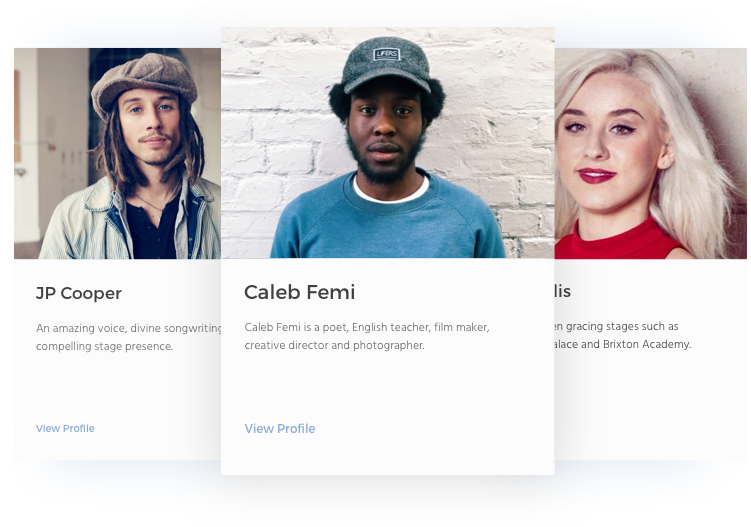
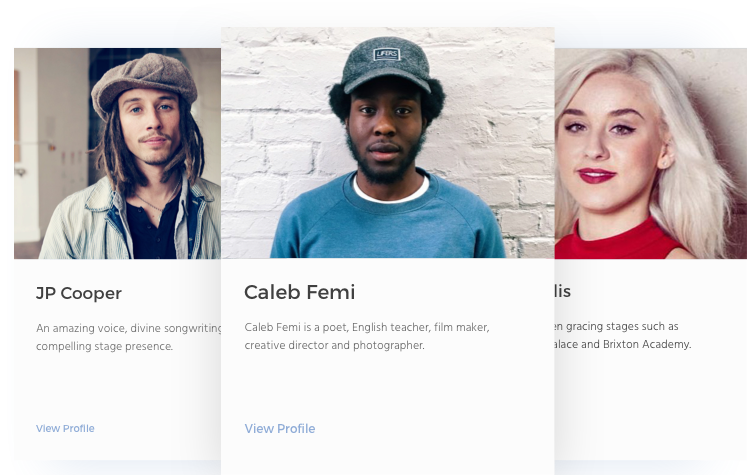
fixed project thumbnail issue on large screens

diff --git a/_sass/modules/_project-thumbnails.scss b/_sass/modules/_project-thumbnails.scss
@@ -18,22 +18,25 @@
     }
   }
 
-  @media screen and (min-width: pxtoem(768)) {
-    margin-bottom: pxtoem(120);
+  @media screen and (min-width: $tablet-min-breakpoint) {
+    margin-bottom: 7em;
   }
+
+  @media screen and (min-width: pxtoem(860)) {
+    margin-bottom: 10em;
+  }
+
 }
 
 .backdrop {
-  padding: 70px 0;
-
-  @media screen and (min-width: pxtoem(768)) and (max-width: pxtoem(991)) {
-    height: 300px;
+  @media screen and (max-width: $mobile-max-breakpoint) {
+    padding: 70px 0;
   }
 
-  @media screen and (min-width: pxtoem(992)) {
-    height: 360px;
+  .container {
+    position: relative;
+    height: 100%;
   }
-
 }
 
 #toad {
@@ -47,10 +50,9 @@
     background-color: #6187BE;
 
     .project-featured-image {
-      bottom: -63px;
-
       @media screen and (min-width: pxtoem(768)) {
         max-width: 700px;
+        bottom: -20px;
       }
 
       img {
@@ -65,11 +67,14 @@
 .project-thumb-info {
   position: relative;
   z-index: 2;
+
+  @media screen and (min-width: $tablet-min-breakpoint) {
+    padding: 70px 0;
+  }
 }
 
 .project-featured-image {
     @extend .thumbnail;
-
     img {
         display: block;
         margin-left: auto;
@@ -113,6 +118,7 @@
   font-family: $display-font-family;
   margin-bottom: pxtoem(20);
   display: block;
+
   @media screen and (max-width: 550px) {
     font-size: 0.875em;
   }

diff --git a/_includes/portfolio.html b/_includes/portfolio.html
@@ -1,5 +1,7 @@
 <section id="cta-target">
-    <h2 class="section-title center wow moveUpFade" data-wow-offset="50" data-wow-duration="700ms"> Projects </h2>
+    <h2 class="section-title center wow moveUpFade" data-wow-offset="50" data-wow-duration="700ms">
+        Projects
+    </h2>
 
     <div class="projects">
     {% for casestudy in site.projects reversed %}
@@ -9,7 +11,6 @@
                     <div class="project-featured-image">
                         <img src="{{site.baseurl}}/images/projects/{{casestudy.directory}}/thumbnail/{{casestudy.thumbnail}}" alt="project">
                     </div>
-
                     <div class="col-xs-12 col-sm-6 project-thumb-info">
                         <span class="project-thumb-category">{{ casestudy.category }}</span>
                         <h3 class="project-thumb-title">{{ casestudy.thumb-title }}</h3>
@@ -17,7 +18,6 @@
                             View Case Study
                         </a>
                     </div>
-
                 </div>
             </div>
         </div>

diff --git a/_includes/footer.html b/_includes/footer.html
@@ -1,7 +1,7 @@
 <footer class="footer">
 	<div class="container">
 		<div class="col-sm-12">
-			<span>&copy; 2017 Lloyd Bennett Portfolio</span>
+			<span>&copy; {{ "now" | date: "%Y" }} Lloyd Bennett</span>
 		</div>
 	</div>
 </footer>
